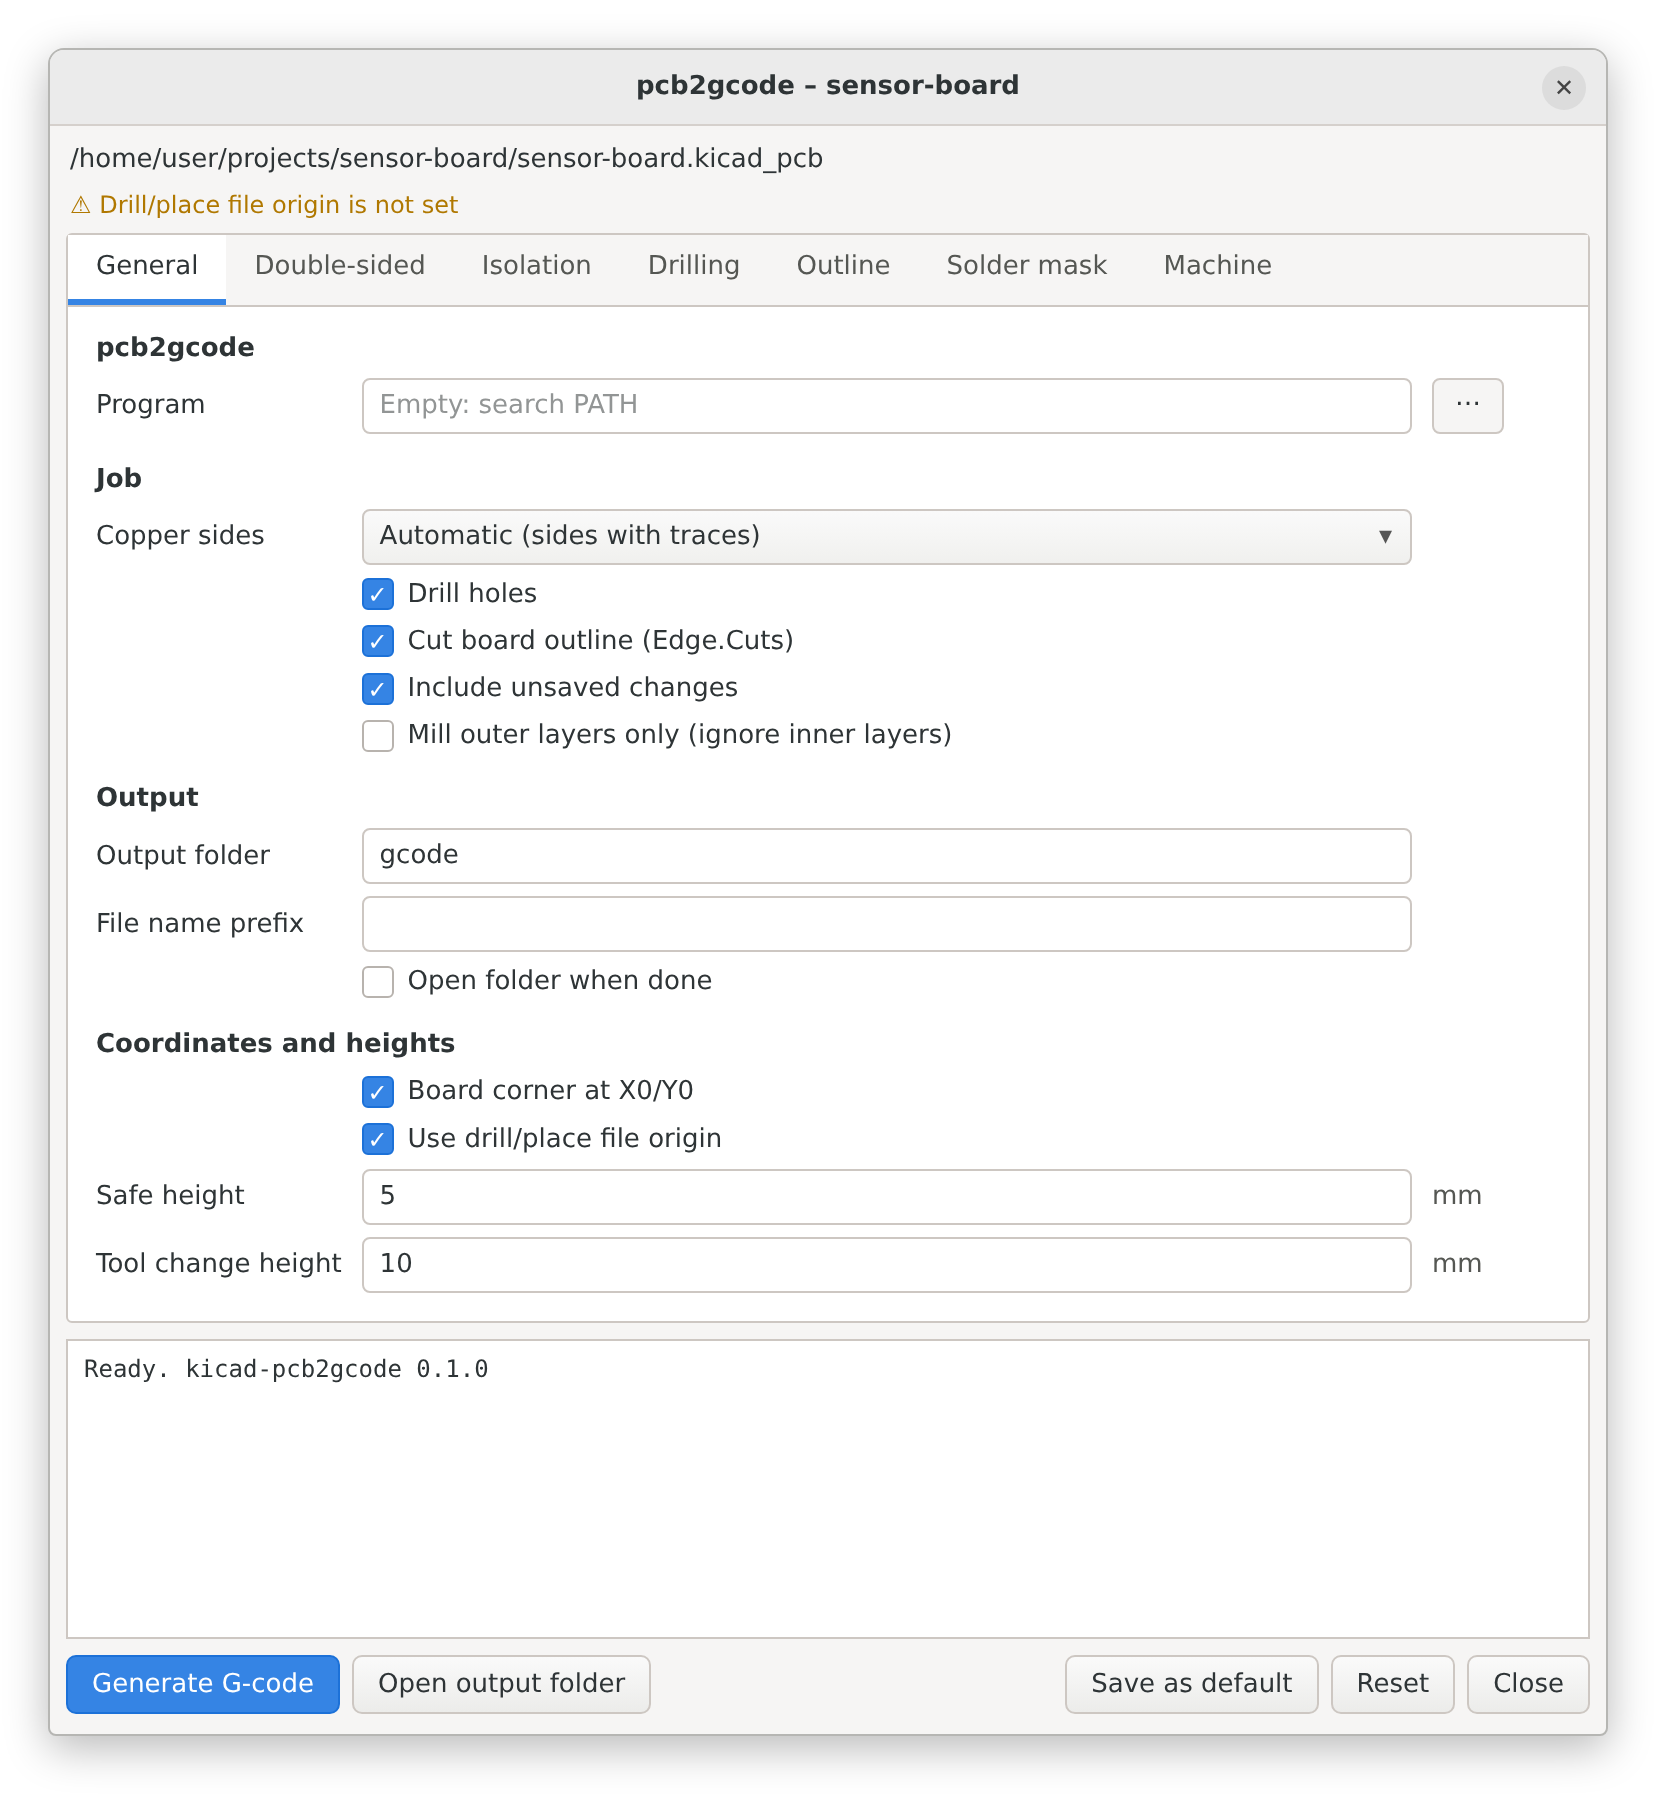
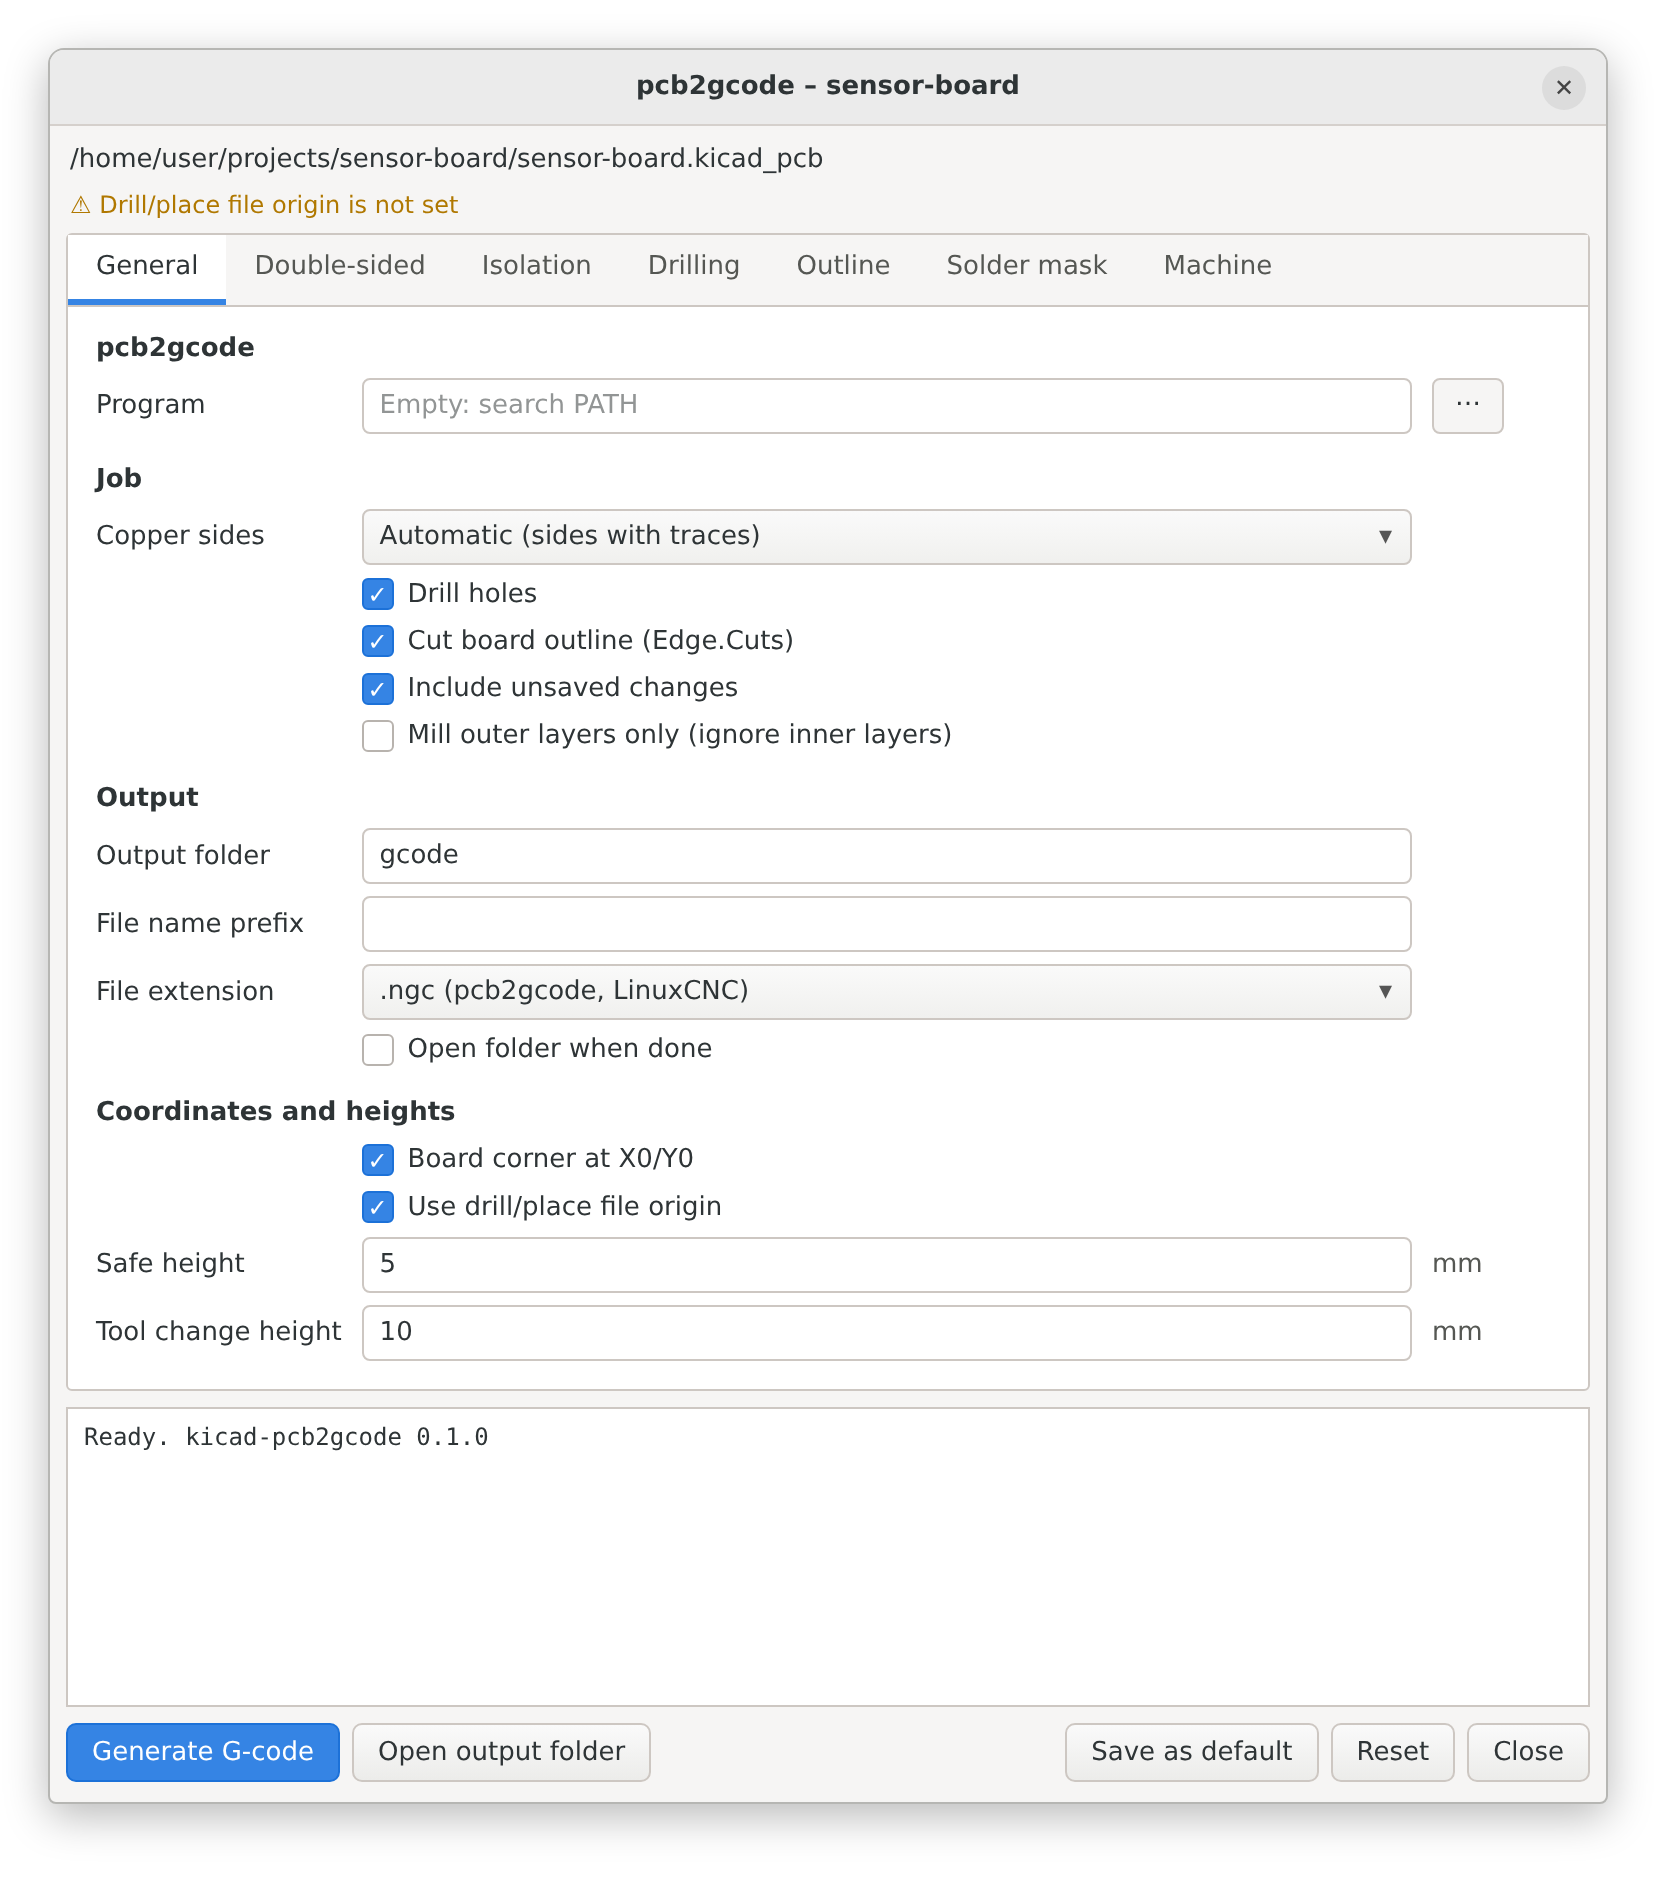
Selectable G-code file extension
"File extension" in the General tab (CLI --ext): .ngc (pcb2gcode's own,
default), .nc, .gcode, .tap, .cnc or .txt. pcb2gcode always writes .ngc;
the plugin renames the files afterwards, and before each run removes this
board's G-code files in any of these extensions so a switch leaves no
stale files. The flip-frame order of work uses the chosen extension.

Claude-Session: https://claude.ai/code/session_01PpFE8sBd2hR1uK4Xvk6eWU

diff --git a/plugin/kicad_pcb2gcode/job.py b/plugin/kicad_pcb2gcode/job.py
@@ -334,7 +334,7 @@ def prepare_inputs(req: JobRequest, log: Log) -> "tuple[Inputs, str, Dict[str, O
 
 def _job_name(path: str) -> str:
     """"front", "drill", "mask_back" … from a pcb2gcode output file name."""
-    stem = os.path.basename(path)[:-4]
+    stem = os.path.splitext(os.path.basename(path))[0]
     for job in ("mask_front", "mask_back", "npth_drill", "npth_milldrill"):
         if stem.endswith("_" + job):
             return job
@@ -423,9 +423,28 @@ def remove_first_pause(path: str) -> bool:
     return False
 
 
-def clean_outputs(output_dir: str) -> None:
-    """Remove G-code from earlier runs so stale files cannot be mistaken for new ones."""
+def rename_outputs(files: List[str], extension: str) -> List[str]:
+    """Give pcb2gcode's .ngc files the chosen extension."""
+    if extension == "ngc":
+        return files
+    renamed = []
+    for path in files:
+        target = os.path.splitext(path)[0] + "." + extension
+        os.replace(path, target)
+        renamed.append(target)
+    return sorted(renamed)
+
+
+def clean_outputs(output_dir: str, basename: str = "") -> None:
+    """Remove G-code from earlier runs so stale files cannot be mistaken for new ones:
+    every .ngc (what pcb2gcode writes) and this board's files in any other
+    selectable extension."""
+    from .settings import FILE_EXTENSIONS
+
     stale = glob.glob(os.path.join(output_dir, "*.ngc"))
+    if basename:
+        for ext in FILE_EXTENSIONS:
+            stale += glob.glob(os.path.join(output_dir, glob.escape(basename) + "_*." + ext))
     stale += [os.path.join(output_dir, name) for name in ("STEPS.txt", "ABLAUF.txt")]
     for path in stale:
         if not os.path.isfile(path):
@@ -499,7 +518,7 @@ def run_job(req: JobRequest, log: Log = print) -> JobResult:
             fh.write(render(settings, run_inputs, run_basename))
     millproject_path = os.path.join(req.output_dir, "millproject")
 
-    clean_outputs(req.output_dir)
+    clean_outputs(req.output_dir, basename)
     for config, _, _, _, label in runs:
         if config == "millproject":
             log(tr("Running pcb2gcode ...", "Starte pcb2gcode ..."))
@@ -509,6 +528,7 @@ def run_job(req: JobRequest, log: Log = print) -> JobResult:
             _run_pcb2gcode(req, [req.pcb2gcode, "--config", config], log)
 
     files = sorted(glob.glob(os.path.join(req.output_dir, "*.ngc")))
+    files = rename_outputs(files, req.settings.general.file_extension)
     if req.settings.machine.skip_first_pause:
         removed = sum(remove_first_pause(path) for path in files)
         if removed:

diff --git a/tests/test_job.py b/tests/test_job.py
@@ -454,3 +454,42 @@ def test_remove_first_pause_details(tmp_path):
     empty = tmp_path / "b.ngc"
     empty.write_text("G21\nM2\n")
     assert not remove_first_pause(str(empty))
+
+
+def test_file_extension(board):
+    s = Settings()
+    s.general.file_extension = "nc"
+    result = run_job(request(board, s), lambda line: None)
+    assert result.files and all(f.endswith(".nc") for f in result.files)
+    assert not [f for f in os.listdir(result.output_dir) if f.endswith(".ngc")]
+
+
+def test_switching_extension_removes_old_files_of_this_board_only(board):
+    out = os.path.join(os.path.dirname(board), "gcode")
+    os.makedirs(out)
+    for name in ("my_board_back.gcode", "my_board_drill.tap", "notes.txt", "other_board_back.nc"):
+        open(os.path.join(out, name), "w").close()
+    s = Settings()
+    s.general.file_extension = "txt"
+    result = run_job(request(board, s), lambda line: None)
+    left = set(os.listdir(out))
+    assert "my_board_back.gcode" not in left and "my_board_drill.tap" not in left
+    assert {"notes.txt", "other_board_back.nc"} <= left
+    assert "my_board_back.txt" in left and os.path.join(out, "my_board_back.txt") in result.files
+
+
+def test_flip_frame_steps_use_the_chosen_extension(board):
+    s = Settings()
+    s.general.frame_mode = True
+    s.general.sides = "both"
+    s.general.file_extension = "gcode"
+    s.mask.enabled = False
+    result = run_job(request(board, s), lambda line: None)
+    steps = open(os.path.join(result.output_dir, "STEPS.txt")).read()
+    assert "my_board_front.gcode  (top side)" in steps and "my_board_back.gcode  (bottom side)" in steps
+
+
+def test_unknown_extension_falls_back():
+    s = Settings.from_dict({"general": {"file_extension": ".EXE"}})
+    assert s.general.file_extension == "ngc"
+    assert Settings.from_dict({"general": {"file_extension": ".NC"}}).general.file_extension == "nc"

diff --git a/plugin/kicad_pcb2gcode/form.py b/plugin/kicad_pcb2gcode/form.py
@@ -57,6 +57,17 @@ PAGES: List[Tuple[Tuple[str, str], List[Row]]] = [
               tip=("Relative to the board file, or an absolute path.", "Relativ zur Board-Datei oder absoluter Pfad.")),
         Field("general", "basename", ("File name prefix", "Dateinamen-Präfix"), "text",
               tip=("Empty: board name.", "Leer: Name des Boards.")),
+        Field("general", "file_extension", ("File extension", "Dateiendung"), "choice", choices=(
+            ("ngc", (".ngc (pcb2gcode, LinuxCNC)", ".ngc (pcb2gcode, LinuxCNC)")),
+            ("nc", (".nc", ".nc")),
+            ("gcode", (".gcode", ".gcode")),
+            ("tap", (".tap", ".tap")),
+            ("cnc", (".cnc", ".cnc")),
+            ("txt", (".txt", ".txt")),
+        ), tip=("pcb2gcode writes .ngc; other extensions are applied afterwards. Pick what your G-code "
+                "sender opens without asking (Candle, UGS, bCNC ...).",
+                "pcb2gcode schreibt .ngc; andere Endungen werden danach vergeben. Wähle, was dein "
+                "G-Code-Sender direkt öffnet (Candle, UGS, bCNC …).")),
         Field("general", "open_folder_after", ("Open folder when done", "Ordner danach öffnen"), "bool"),
         Heading(("Coordinates and heights", "Koordinaten und Höhen")),
         Field("general", "zero_start", ("Board corner at X0/Y0", "Platinenecke auf X0/Y0"), "bool",

diff --git a/plugin/kicad_pcb2gcode/settings.py b/plugin/kicad_pcb2gcode/settings.py
@@ -33,12 +33,14 @@ FEED_DIRECTIONS = ("any", "climb", "conventional")
 FLIP_AXES = ("leftright", "topbottom")
 # merged: PTH+NPTH in one file; separate: two files; pth / npth: only that kind
 HOLE_MODES = ("merged", "separate", "pth", "npth")
+FILE_EXTENSIONS = ("ngc", "nc", "gcode", "tap", "cnc", "txt")
 
 
 @dataclass
 class GeneralSettings:
     output_subdir: str = "gcode"
     basename: str = ""  # empty: use the board file name
+    file_extension: str = "ngc"  # pcb2gcode writes .ngc; other choices are renamed afterwards
     sides: str = "auto"  # auto | front | back | both
     export_drill: bool = True
     export_outline: bool = True
@@ -185,6 +187,9 @@ class Settings:
 
     def sanitize(self) -> None:
         g, i, d, o = self.general, self.isolation, self.drill, self.outline
+        g.file_extension = g.file_extension.strip().lstrip(".").lower()
+        if g.file_extension not in FILE_EXTENSIONS:
+            g.file_extension = "ngc"
         if g.flip_axis not in FLIP_AXES:
             g.flip_axis = "leftright"
         if g.sides not in SIDES:

diff --git a/plugin/kicad_pcb2gcode/__main__.py b/plugin/kicad_pcb2gcode/__main__.py
@@ -29,6 +29,7 @@ def parse_args(argv: Optional[List[str]] = None) -> argparse.Namespace:
     p.add_argument("--no-mask", action="store_true", help="skip milling the solder mask openings")
     p.add_argument("--skip-first-pause", action="store_true",
                    help="remove the M0 pause at the start of each G-code file")
+    p.add_argument("--ext", choices=("ngc", "nc", "gcode", "tap", "cnc", "txt"), help="G-code file extension")
     p.add_argument("--holes", choices=("merged", "separate", "pth", "npth"),
                    help="PTH and NPTH in one drill file, in two, or only one kind")
     p.add_argument("--frame", action="store_true",
@@ -61,6 +62,8 @@ def main(argv: Optional[List[str]] = None) -> int:
         general["flip_axis"] = args.flip
     if args.outer_layers_only:
         general["outer_layers_only"] = True
+    if args.ext:
+        general["file_extension"] = args.ext
     if args.output:
         general["output_subdir"] = args.output
 

diff --git a/README.de.md b/README.de.md
@@ -112,6 +112,10 @@ mein-board/
     cam/                      exportierte Gerber- und Bohrdateien
 ```
 
+Die Dateiendung ist im Reiter **Allgemein** wählbar (`.ngc`, `.nc`, `.gcode`,
+`.tap`, `.cnc`, `.txt`); pcb2gcode schreibt `.ngc`, das Plugin benennt die
+Dateien danach um.
+
 Die Dateien nacheinander im G-Code-Sender (Candle, UGS, bCNC, CNCjs …)
 abarbeiten und dazwischen das Werkzeug wechseln. Der Autoleveller von
 pcb2gcode unterstützt GRBL nicht; nutze stattdessen die Höhenkarte deines

diff --git a/README.md b/README.md
@@ -107,6 +107,10 @@ my-board/
     cam/                    exported Gerber and drill files
 ```
 
+The extension is selectable in the **General** tab (`.ngc`, `.nc`, `.gcode`,
+`.tap`, `.cnc`, `.txt`); pcb2gcode writes `.ngc` and the plugin renames the
+files afterwards.
+
 Run the files in your G-code sender (Candle, UGS, bCNC, CNCjs …) and change
 tools in between. pcb2gcode's own autoleveller does not support GRBL; use the
 height-map feature of your sender instead.
